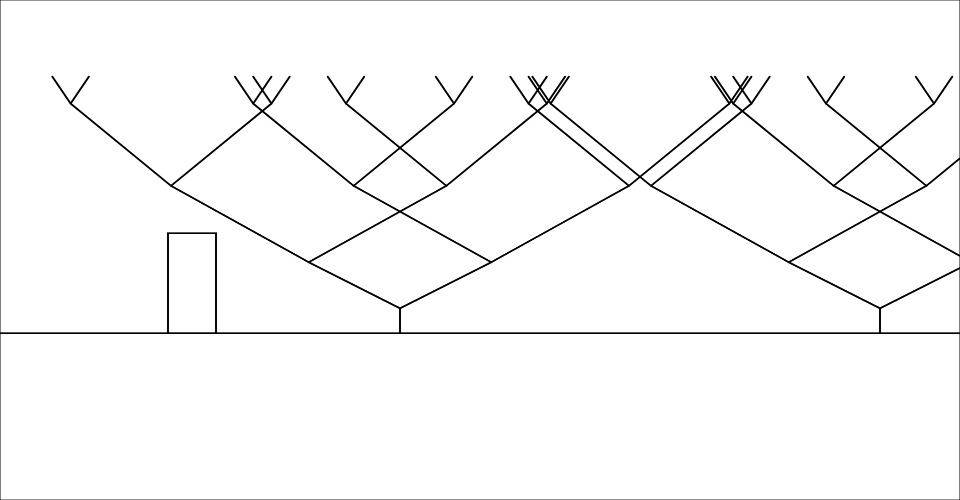
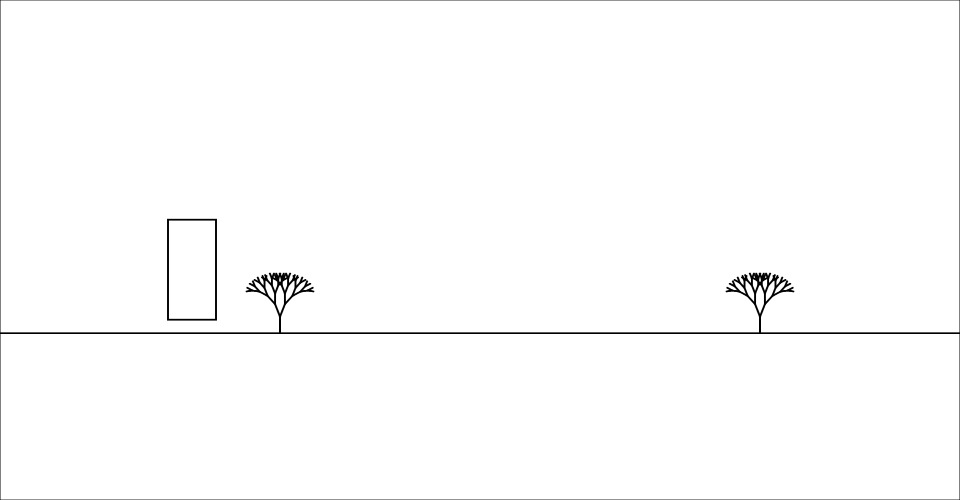
fixed fractal trees

diff --git a/draw_one_frame.js b/draw_one_frame.js
@@ -67,40 +67,91 @@ function drawTree(){
 
 	
 	
-	let trunkHeightDivider=20;
+	let trunkHeight=canvasHeight/30;
 
 	let treeX=
 	//width/2;
 	map(frameNo,0,24,canvasWidth/2,0);
 	
-	line(treeX,groundY,treeX,groundY-canvasHeight/trunkHeightDivider);
-	drawBranch(treeX,groundY-canvasHeight/trunkHeightDivider,25,trunkHeightDivider,1,1);
-	drawBranch(treeX,groundY-canvasHeight/trunkHeightDivider,25,trunkHeightDivider,1,-1);
-
+	line(treeX,groundY,treeX,groundY-trunkHeight);
+	push();
+	translate(treeX,groundY);
+	drawBranch(trunkHeight,0);
+	pop();
 
 	
 	//rectMode(CENTER);
 	//rect(treeX,groundY-canvasHeight/20,canvasWidth/20,canvasHeight/10);
 	push();
 	translate(width/2,0);
-	line(treeX,groundY,treeX,groundY-canvasHeight/trunkHeightDivider);
-	drawBranch(treeX,groundY-canvasHeight/trunkHeightDivider,25,trunkHeightDivider,1,1);
-	drawBranch(treeX,groundY-canvasHeight/trunkHeightDivider,25,trunkHeightDivider,1,-1);
-	//rect(treeX+width/2,groundY-canvasHeight/20,canvasWidth/20,canvasHeight/10);
+	// line(treeX,groundY,treeX,groundY-canvasHeight/trunkHeightDivider);
+	// drawBranch(treeX,groundY-canvasHeight/trunkHeightDivider,25,trunkHeightDivider,1,1);
+	// drawBranch(treeX,groundY-canvasHeight/trunkHeightDivider,25,trunkHeightDivider,1,-1);
+	// //rect(treeX+width/2,groundY-canvasHeight/20,canvasWidth/20,canvasHeight/10);
+	line(treeX,groundY,treeX,groundY-trunkHeight);
+	push();
+	translate(treeX,groundY);
+	drawBranch(trunkHeight,0);
+	pop();
 	pop();
 
 }
-function drawBranch(x,y,rotation,branchDivider,depth,direction){
-	//push();
-	//translate(0,0);
-	//rotate(rotation);
-	let x2=x+direction*(sin(rotation)*(y-canvasHeight/branchDivider));
-	let y2=cos(rotation)*y-canvasHeight/branchDivider;
-	line(x,y,x2,y2);
-	if(depth<4){
-		drawBranch(x2,y2,rotation+25,branchDivider*2, depth+1,-1);
-		drawBranch(x2,y2,rotation+25,branchDivider*2,depth+1,+1);
+function drawBranch(branchLength,numOfBranches){
+	let angle=340;
+	line(0,0,0,-branchLength);
+	translate(0,-branchLength);
+	if(numOfBranches<5){
+		push();
+		rotate(angle);
+		drawBranch(branchLength*.8,numOfBranches+1);
+		pop();
+		push();
+		rotate(-angle);
+		drawBranch(branchLength*.8,numOfBranches+1);
+		pop();
 	}
-	
-	//pop();
 }
+// function drawTree(){
+// 	// let treeX=map(cur_frac,0,1,canvasWidth+canvasWidth/20,0-canvasWidth/20);
+// 	// rectMode(CENTER);
+// 	// rect(treeX,groundY-canvasHeight/20,canvasWidth/20,canvasHeight/10);
+
+	
+	
+// 	let trunkHeightDivider=20;
+
+// 	let treeX=
+// 	//width/2;
+// 	map(frameNo,0,24,canvasWidth/2,0);
+	
+// 	line(treeX,groundY,treeX,groundY-canvasHeight/trunkHeightDivider);
+// 	drawBranch(treeX,groundY-canvasHeight/trunkHeightDivider,25,trunkHeightDivider,1,1);
+// 	drawBranch(treeX,groundY-canvasHeight/trunkHeightDivider,25,trunkHeightDivider,1,-1);
+
+
+	
+// 	//rectMode(CENTER);
+// 	//rect(treeX,groundY-canvasHeight/20,canvasWidth/20,canvasHeight/10);
+// 	push();
+// 	translate(width/2,0);
+// 	line(treeX,groundY,treeX,groundY-canvasHeight/trunkHeightDivider);
+// 	drawBranch(treeX,groundY-canvasHeight/trunkHeightDivider,25,trunkHeightDivider,1,1);
+// 	drawBranch(treeX,groundY-canvasHeight/trunkHeightDivider,25,trunkHeightDivider,1,-1);
+// 	//rect(treeX+width/2,groundY-canvasHeight/20,canvasWidth/20,canvasHeight/10);
+// 	pop();
+
+// }
+// function drawBranch(x,y,rotation,branchDivider,depth,direction){
+// 	//push();
+// 	//translate(0,0);
+// 	//rotate(rotation);
+// 	let x2=x+direction*(sin(rotation)*(y-canvasHeight/branchDivider));
+// 	let y2=cos(rotation)*y-canvasHeight/branchDivider;
+// 	line(x,y,x2,y2);
+// 	if(depth<4){
+// 		drawBranch(x2,y2,rotation+25,branchDivider*2, depth+1,-1);
+// 		drawBranch(x2,y2,rotation+25,branchDivider*2,depth+1,+1);
+// 	}
+	
+// 	//pop();
+// }

diff --git a/README.md b/README.md
@@ -1,1 +1,1 @@
-Here is a first attempt for what fractal trees will look like however I will need to edit this further.
+Improved the fractal trees
